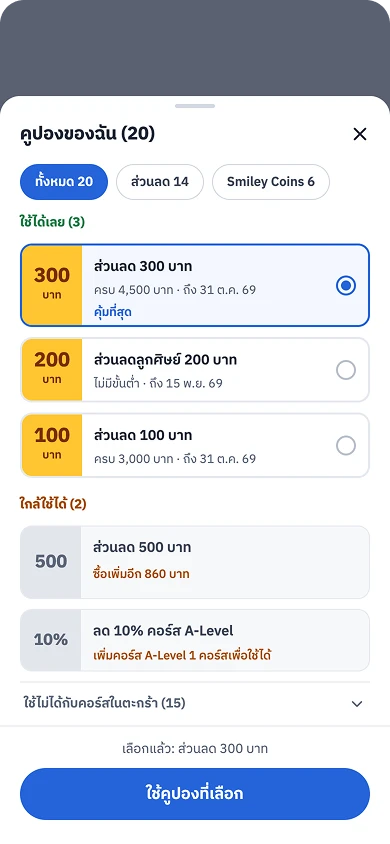
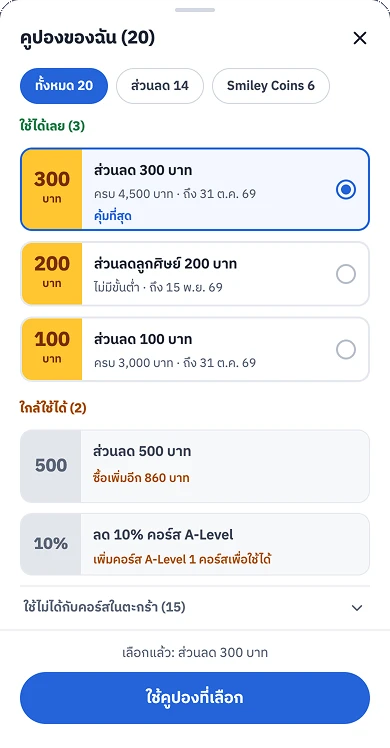
SMP: align coupon list with order summary, drop tools line
Claude-Session: https://claude.ai/code/session_01E1p4hhzfoDJWiCQamLmMo5

Changed region(s): [[0.0, 0.0, 1.0, 0.984], [0.0308, 0.9225, 0.0615, 0.9532]]

diff --git a/src/pages/work/SMP.jsx b/src/pages/work/SMP.jsx
@@ -139,7 +139,7 @@ const SMP = () => {
                         solutionContent={
                             <div className="flex flex-wrap gap-3">
                                 <Screen src="/img/work/smp/ex2-after-summary.webp" alt="Order summary with the best eligible coupon applied" caption="Order summary" />
-                                <Screen src="/img/work/smp/ex2-after-coupons.webp" alt="Coupon list with the applied coupon highlighted" caption="Coupon list" />
+                                <Screen src="/img/work/smp/ex2-after-coupons.webp" alt="Coupon list with the applied coupon highlighted" caption="Coupon list" className="h-[156px] md:h-[195px]" />
                             </div>
                         }
                         why={[
@@ -204,7 +204,6 @@ const SMP = () => {
                         </tbody>
                     </table>
                 </div>
-                <p className={S.caption}>Tools: GA4 · Microsoft Clarity</p>
             </section>
 
             <section id="result" className={S.section}>
